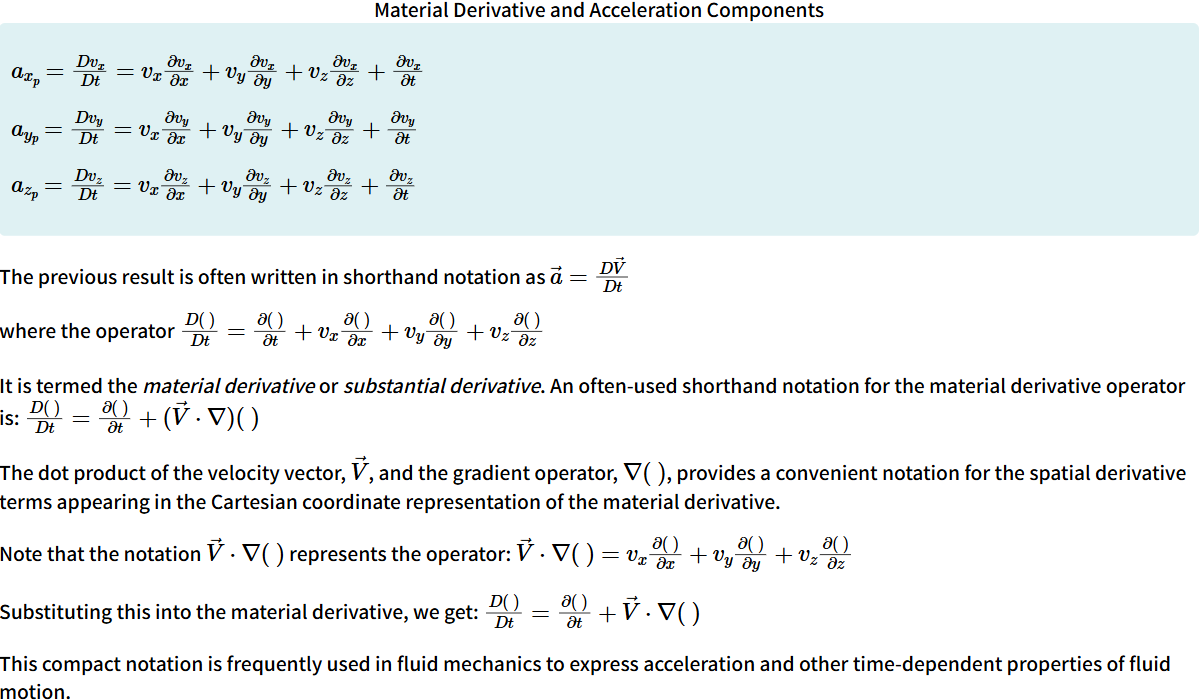
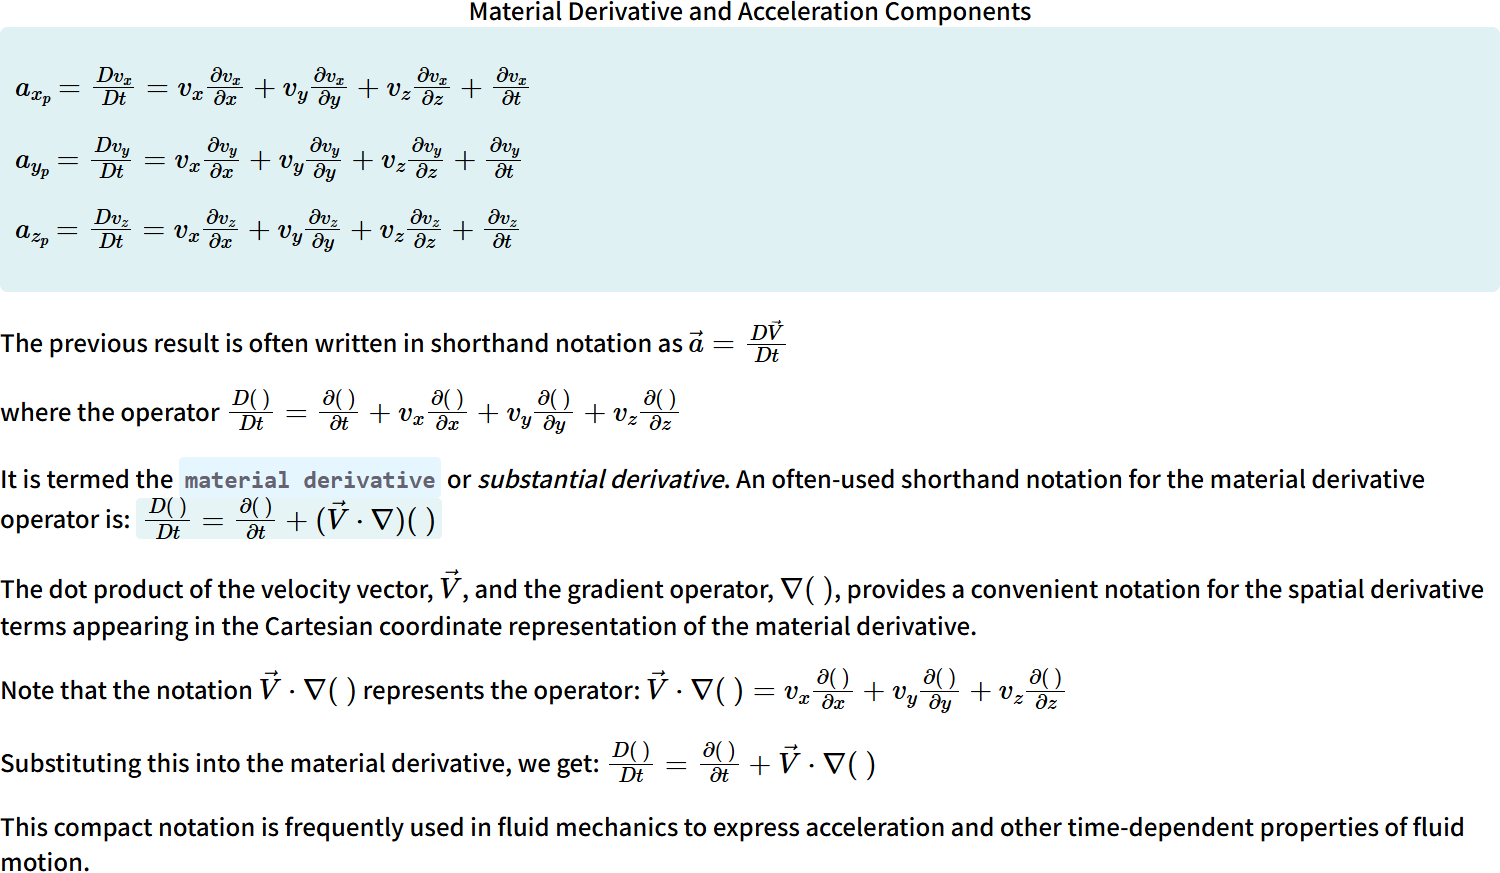
Update

diff --git a/PS3Slide8.html b/PS3Slide8.html
@@ -4,7 +4,7 @@
     <meta charset="UTF-8">
     <meta name="viewport" content="width=device-width, initial-scale=1.0">
     <link rel="icon" href="favicon.png" type="image/x-icon">
-    <title>Problem 6</title>
+    <title>Expanded Knowledge</title>
     <link rel="stylesheet" href="styles.css">
     <script>
         window.MathJax = {
@@ -98,60 +98,18 @@ window.addEventListener('resize', scaleContainer);
 </head>
 <body>
     <div class="container">
-        <div class="title">Problem 6: Grid Generation and Boundary Conditions</div>
+        <div class="title">Problem 1: Expanded Knowledge</div>
 
         <div class="slide">     
-        <p>A <span class="sql">structured grid</span> consists of planar cells with four edges (2D) or volumetric cells with six faces (3D). 
-Although the cells may be distorted from rectangular, each cell is numbered according to indices \((i, j, k)\) that do not necessarily correspond to coordinates \(x, y\) and \(z\). <br><br>
-An <span class="sql">unstructured grid</span> consists of cells of various shapes, but typically triangles or quadrilaterals (2D) and tetrahedrons or hexahedrons (3D) are used.
-Unlike the structured grid, one cannot uniquely identify cells in the unstructured grid by indices \(i\) and \(j\); instead, cells are numbered in some other fashion internally in the CFD code.</p>
 <div class="image-container" style="text-align: left;">
-    <img src="Figures/PS3_GridGenerations.png" alt="GridGenerations" style="max-width: 89%; height: auto; display: block; margin: auto;">
+    <img src="Figures/PS3_WaveMotionBasics.png" alt="WaveMotionBasics" style="max-width: 100%; height: auto; display: block; margin: auto;">
 </div>
-<p>(1) A CFD code is used to solve a two-dimensional (x
-and y), incompressible, laminar flow without free surfaces. 
-The fluid is Newtonian. Appropriate boundary conditions are 
-used. List the variables (unknowns) in the problem, and list 
-the corresponding equations to be solved by the computer.
-</p>
-
-<p>(2) For the two-dimensional computational domain <img src="Figures/PS3_2DComputationalDomain.png" 
-            alt="2DComputationalDomain.png" 
-            style="height: 6em; vertical-align: middle;">, with the given node distribution, sketch a 
-simple structured grid using four-sided cells and sketch a 
-simple unstructured polyhedral grid using at least one of 
-each: 3-sided, 4-sided, and 5-sided cells. Try to avoid large 
-skewness. Compare the cell count for each case and discuss 
-your results.
-</p>
-
-<p>(3) What is the standard method to test for adequate 
-grid resolution when using CFD?
-</p>
-
-<p>(4) List all the boundary conditions discussed in the lectures that may be applied to 
-the right edge of the two-dimensional computational domain 
-sketched in <img src="Figures/PS3_BCEdges.png" 
-            alt="BCEdges.png" 
-            style="height: 9em; vertical-align: middle;">. Why can't the other boundary 
-conditions be applied to this edge?</p>
-        <!-- Footnote Section -->
-        <div class="footnote-container">
-            <hr class="footnote-line">
-            <p class="footnote">
-                <p class="footnote"><sup>1</sup> This problem set contains 6 problems, and your final score will be based on the 4 problems on which you earned the highest scores.
-            </p>
-            <p class="footnote">
-                <p class="footnote"><sup>2</sup> Fluid Mechanics: Fundamentals and Applications Fourth Edition. Çengel and J. M. Cimbala, McGraw-Hill, New York (2018).
-            </p>
-        </div>
-
 
         </div>
 
         <!-- Navigation Arrows -->
         <a href="PS3Slide6.html" class="nav-button left">&#9664;</a>
-        <a href="PS3Slide8.html" class="nav-button right">&#9654;</a>
+        <a href="PS3Overview.html" class="nav-button right">&#9654;</a>
     </div>
 <!-- Footer -->
 <div class="footer">

diff --git a/Lecture1ASlide14.html b/Lecture1ASlide14.html
@@ -58,6 +58,17 @@
             font-weight: bold;
             margin-bottom: 20px;
         }
+    .highlight {
+    background-color:rgba(221, 241, 243, 0.8); 
+    padding: 2px 4px;
+    border-radius: 3px;
+    }
+
+    .highlightkumon {
+    background-color: rgba(220, 244, 255, 0.8); /* #7DCDF4 with % opacity */
+    padding: 2px 4px;
+    border-radius: 3px;
+    }
     </style>
     <script>
 function scaleContainer() {
@@ -99,8 +110,8 @@ window.addEventListener('resize', scaleContainer);
             <p>where the operator  
             $ \frac{D( \ )}{D t} = \frac{\partial ( \ )}{\partial t} + v_x \frac{\partial ( \ )}{\partial x} + v_y \frac{\partial ( \ )}{\partial y} + v_z \frac{\partial ( \ )}{\partial z} $</p>
 
-            <p>It is termed the <em>material derivative</em> or <em>substantial derivative</em>. An often-used shorthand notation for the material derivative operator is:  
-            $ \frac{D( \ )}{D t} = \frac{\partial ( \ )}{\partial t} + ( \vec{V} \cdot \nabla )( \ ) $</p>
+            <p>It is termed the <span class="highlightkumon"><span class="sql">material derivative</span></span> or <em>substantial derivative</em>. An often-used shorthand notation for the material derivative operator is:  
+            <span class="highlight">$\frac{D( \ )}{D t} = \frac{\partial ( \ )}{\partial t} + ( \vec{V} \cdot \nabla )( \ )$</span></p>
         </div>
 
         <div class="slide">

diff --git a/Lecture1ASlide12.html b/Lecture1ASlide12.html
@@ -58,6 +58,17 @@
             font-weight: bold;
             margin-bottom: 20px;
         }
+    .highlight {
+    background-color:rgba(221, 241, 243, 0.8); 
+    padding: 2px 4px;
+    border-radius: 3px;
+    }
+
+    .highlightkumon {
+    background-color: rgba(220, 244, 255, 0.8); /* #7DCDF4 with % opacity */
+    padding: 2px 4px;
+    border-radius: 3px;
+    }
     </style>
     <script>
 function scaleContainer() {
@@ -81,7 +92,7 @@ window.addEventListener('resize', scaleContainer);
     <div class="container">
         Fluid Acceleration in a Velocity Field
         <div class="slide">
-            <p>The derivative, \( D/Dt \), defined by the previous slide, is commonly called the <em>substantial derivative</em> to remind us that it is computed for a particle of "substance." It is often also called the <em>material derivative</em> or <em>particle derivative</em>.</p>
+            <p>The derivative, \( D/Dt \), defined by the previous slide, is commonly called the <em>substantial derivative</em> to remind us that it is computed for a particle of "substance." It is often also called the <span class="highlightkumon"><span class="sql">material derivative</span></span> or <em>particle derivative</em>.</p>
 
             <p>The physical significance of the terms is:  
             \( \underbrace{\frac{D \vec{V}}{D t} = \vec{a}_p}_{\text{total acceleration of a particle}} = 

diff --git a/Lecture1ASlide26.html b/Lecture1ASlide26.html
@@ -93,9 +93,8 @@ window.addEventListener('resize', scaleContainer);
         </div>
         <div class="description">
             <p>Changes in length of the sides may produce changes in volume of the element. The rate of local instantaneous <span class="sql">volume dilation </span> is given by
-
                 \[
-                \text{volume dilation rate} = \frac{\partial v_x}{\partial x} + \frac{\partial v_y}{\partial y} + \frac{\partial v_z}{\partial z}
+                \text{volume dilation rate} = \frac{\partial v_x}{\partial x} + \frac{\partial v_y}{\partial y} + \frac{\partial v_z}{\partial z} \quad (\text{or can be written as} \quad \frac{\partial u}{\partial x} + \frac{\partial v}{\partial y} + \frac{\partial w}{\partial z})
                 \]</p>
         </div>
         <div class="description">

diff --git a/PS3Overview.html b/PS3Overview.html
@@ -198,7 +198,12 @@
                 <img src="Figures/PS3Slide7.png" alt="Slide 7">
             </div>
         </a>
-        
+        <a href="PS3Slide8.html" class="slide-link">
+            <div class="slide-box">
+                <img src="Figures/PS3Slide8.png" alt="Slide 8">
+            </div>
+        </a>
+    
     </div>
 <!-- Footer -->
 <div class="footer">
